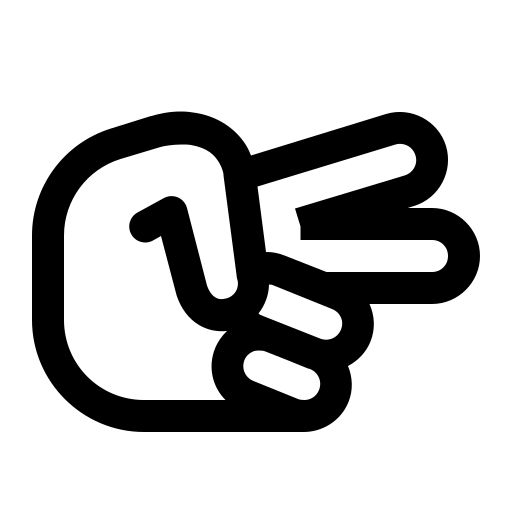
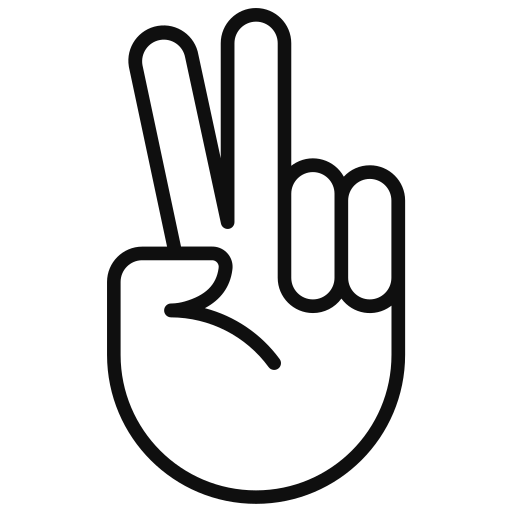
added img change and adjusted design

diff --git a/styles.css b/styles.css
@@ -2,6 +2,7 @@
   margin: 0;
   padding: 0;
   box-sizing: border-box;
+  /* border: solid black 3px; */
 }
 
 body{
@@ -10,11 +11,15 @@ body{
     min-height: 100vh;
     align-items: center;
     justify-content: space-between;
+    font-family: 'Inter', sans-serif; 
 }
 
 h1{
     text-align: center;
     padding: 14px;
+    margin-top: 10px;
+    font-family: 'Montserrat', sans-serif; 
+    font-weight: 700;
 }
 
 .choice-display{
@@ -29,7 +34,9 @@ h1{
 }
 
 .user-display>h3, .computer-display>h3{
-   padding: 20px; 
+   padding: 15px; 
+   margin-bottom: 10px;
+   font-size: 30px;
 }
 
 .choice-buttons{
@@ -37,30 +44,61 @@ h1{
     gap: 50px;
 }
 
-.game-info{
-    width: 40%;
-    display: flex;
-    justify-content: space-between;
-    height: 150px;
+.choices{
+    width: 150px;
+    height: 40px;
+    font-size: 15px;
 }
 
-.human{
+.game-info{
+    width: 70%;
+    display: flex;
+    height: 180px;
+}
+
+.human, .computer{
     flex: 1;
     display: flex;
     flex-direction: column;
-    align-items: center;
+    align-items: stretch;
+    text-align: center;
+}
+
+.human>h3, .computer>h3{
+    font-size: 25px;
+}
+
+.human-score, .computer-score{
+    margin-top: 15px;
+    font-size: 50px;
 }
 
 .round-info{
     flex: 3;
     display: flex;
     flex-direction: column;
-    align-items: center;
+    align-items: stretch;
+    text-align: center;
+    margin-bottom: 20px;
 }
 
-.computer{
-    flex: 1;
-    display: flex;
-    flex-direction: column;
-    align-items: center;
+.round-info>h3{
+    font-size: 30px;
+    margin-bottom: 6px;
+}
+
+.result{
+    font-size: 20px;
+}
+
+.rndBtn{
+    width: 30%;
+    font-size: 15px;
+    padding: 5px;
+    margin: 0 auto;
+}
+
+#nxtrnd{
+    margin-top: 15px;
+    margin-bottom: 10px;
 }

diff --git a/index.html b/index.html
@@ -4,6 +4,7 @@
     <meta charset="UTF-8">
     <meta name="viewport" content="width=device-width, initial-scale=1.0">
     <title>Rocks Papers Scissors</title>
+    <link href="https://fonts.googleapis.com/css2?family=Inter:wght@400;600&family=Montserrat:wght@700&display=swap" rel="stylesheet">
     <link rel="stylesheet" href="styles.css">
     <script src="script.js" defer></script>
 </head>
@@ -13,11 +14,11 @@
     <div class="choice-display">
         <div class="user-display">
             <h3>YOU</h3>
-            <img src="scissor.png" alt="scissors" height="200px" width="auto">
+            <img src="default.png" alt="scissors" class= 'user-hand' height="200px" width="auto">
         </div>
         <div class="computer-display">
             <h3>COMPUTER</h3>
-            <img src="paper.png" alt="paper" height="200px" width="auto">
+            <img src="default.png" alt="paper" class= 'computer-hand' height="200px" width="auto">
         </div>
     </div>
 
@@ -35,10 +36,10 @@
         </div>
 
         <div class="round-info">
-            <div>ROUND <span class="round">1</span></div>
-            <p class="result">BEST OF LUCK!</p>
-            <button id="nxtrnd">NEXT ROUND</button>
-            <button id="pagn">PLAY AGAIN</button>   
+                <h3>ROUND <span class="round">1</span></h3>
+                <p class="result">BEST OF LUCK!</p>
+                <button class='rndBtn' id="nxtrnd">NEXT ROUND</button>
+                <button class='rndBtn' id="pagn">PLAY AGAIN</button>  
         </div>
 
         <div class="computer">

diff --git a/script.js b/script.js
@@ -10,6 +10,8 @@ const disComputerScore = document.querySelector('.computer-score');
 const round = document.querySelector('.round');
 const nxtRoundBtn = document.querySelector('#nxtrnd');
 const playAgainBtn = document.querySelector('#pagn');
+const userHand = document.querySelector('.user-hand');
+const computerHand = document.querySelector('.computer-hand');
 
 nxtRoundBtn.disabled = true;
 playAgainBtn.disabled = true;
@@ -20,6 +22,17 @@ function getComputerChoice(){
 }
 
 function playRound(humanChoice, computerChoice){
+    switch (computerChoice){
+        case 'rock':
+            computerHand.src = 'rock.png';
+            break;
+        case 'paper':
+            computerHand.src = 'paper.png';
+            break;
+        case 'scissors':
+            computerHand.src = 'scissor.png';
+            break;
+    }
     if (humanChoice === computerChoice)
         {
             result.textContent = `DRAW! YOU BOTH CHOSE ${humanChoice}!`;
@@ -62,12 +75,15 @@ choiceButtons.addEventListener('click', (e)=>{
     switch (target.id){
         case 'rockBtn':
             humanChoice = 'rock';
+            userHand.src = 'rock.png';
             break;
         case 'paperBtn':
             humanChoice = 'paper';
+            userHand.src = 'paper.png';
             break;
         case 'scissorBtn':
             humanChoice = 'scissors'
+            userHand.src = 'scissor.png';
             break;
     }
     let computerChoice = getComputerChoice();
